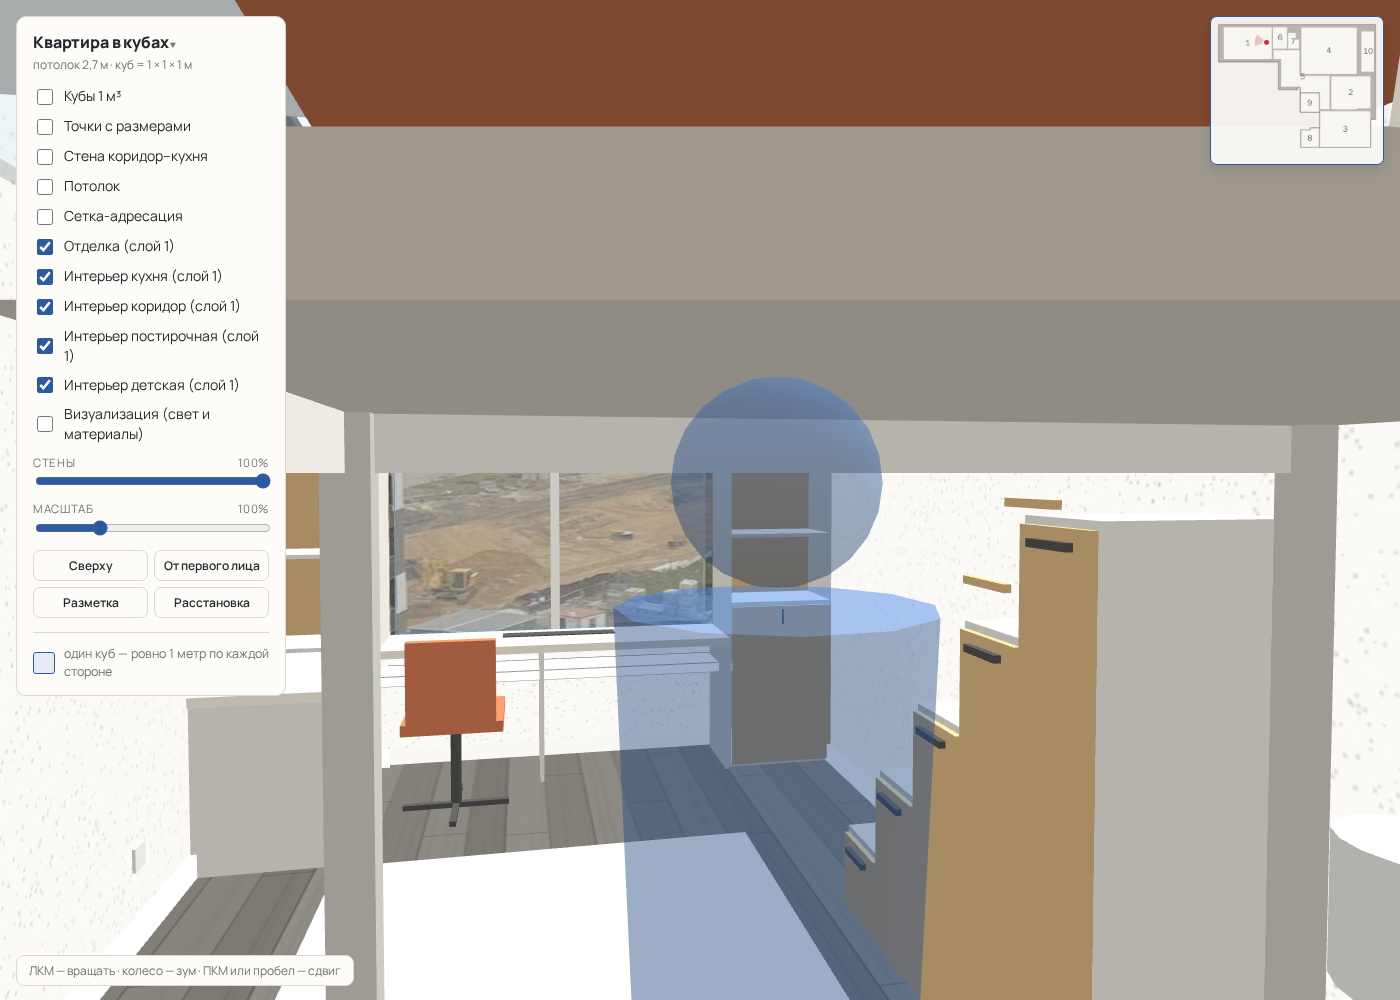
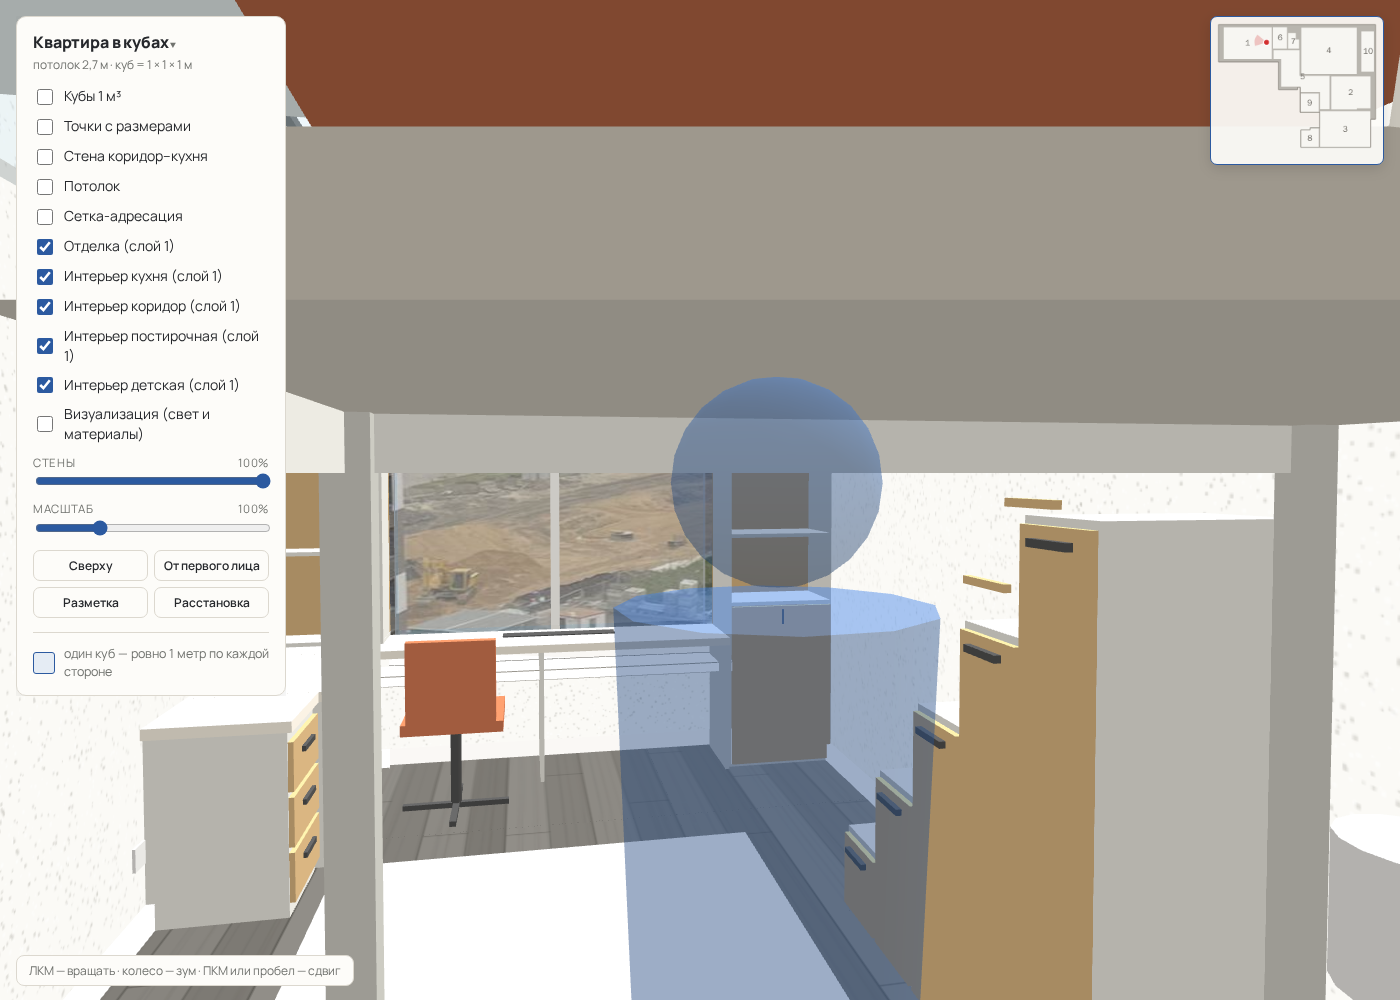
Комната 1: тумба у торца стола, стеллажи одним блоком до потолка, стеллаж на столе глубиной 0.25; проход в расстановке — по деталям друг напротив друга

Changed region(s): [[0.0921, 0.682, 0.2457, 0.93], [0.215, 0.62, 0.2457, 0.651]]

diff --git a/items.js b/items.js
@@ -120,27 +120,28 @@ const PHYS={}; // id → boxes
        b(0.02,0.43,0,0.68,0,0.02,mat.kbody); b(1.214,1.234,0,0.68,1.81,2.37,mat.kbody);               // end panels: north (at the shelf unit) and east
        b(0.05,0.43,0,0.68,0.98,1.0,mat.kbody);                                                        // middle support under the west wing, clear of the chair
        b(0.10,0.20,0.72,0.725,0.59,1.19,mat.knob);                                                     // vent grille over the radiator, 0.60 × 0.10
-       b(0.10,0.52,0.03,0.63,1.83,2.33,mat.kbody);                                                     // mobile pedestal 0.42 × 0.50 × 0.60 under the corner
-       [0.06,0.24,0.42].forEach(y=>{ b(0.52,0.53,y,y+0.16,1.84,2.32,mat.oak); b(0.53,0.545,y+0.1,y+0.12,2.0,2.16,mat.knob); }); // 3 drawers
      }},
+    {id:'kidped',type:'тумба с 3 ящиками у торца стола, столешница вровень',room:1,layer:'kid',pos:[2.13,4.364],rot:0,size:[0.42,0.72,0.50],fixed:'wall',
+     build(b){ b(0.02,0.40,0,0.68,0.02,0.50,mat.kbody); b(0,0.42,0.68,0.72,0,0.50,mat.hpl);
+       [0.06,0.26,0.46].forEach(y=>{ b(0.02,0.40,y,y+0.18,0,0.02,mat.oak); b(0.135,0.285,y+0.11,y+0.13,-0.015,0,mat.knob); }); }}, // drawer fronts to the room
     {id:'kidchair',type:'рабочее кресло, регулируемое',room:1,layer:'kid',pos:[1.30,3.60],rot:0,size:[0.55,0.85,0.55],
      build(b,g){
        b(0.05,0.50,0.42,0.47,0.05,0.50,mat.terra); b(0.50,0.55,0.47,0.85,0.08,0.47,mat.terra);      // seat and back, faces the window
        const c=new THREE.Mesh(new THREE.CylinderGeometry(0.025,0.025,0.39,10),mat.knob); c.position.set(0.275,0.225,0.275); g.add(c); // gas lift
        b(0.03,0.52,0,0.03,0.26,0.29,mat.knob); b(0.26,0.29,0,0.03,0.03,0.52,mat.knob);                // base cross
      }},
-    {id:'kidshelf',type:'стеллаж узкий в углу, фасадом к двери',room:1,layer:'kid',pos:[0.896,2.474],rot:270,size:[0.60,2.50,0.43],fixed:'wall',
+    {id:'kidshelf',type:'стеллаж узкий в углу, фасадом к двери',room:1,layer:'kid',pos:[0.896,2.474],rot:270,size:[0.60,2.70,0.43],fixed:'wall',
      build(b){
        const W=0.60, D=0.40, t=0.02;
-       b(0,W,0,t,0,D,mat.kbody); b(0,W,2.5-t,2.5,0,D,mat.kbody); b(0,W,t,2.5-t,0,t,mat.oak);           // bottom, top, oak back
-       b(0,t,t,2.5-t,t,D,mat.kbody); b(W-t,W,t,2.5-t,t,D,mat.kbody);                                  // sides
-       [0.90,1.27,1.63,2.00].forEach(y=>b(t,W-t,y-t,y,t,D,mat.kbody));                                 // shelves: closed 0–0.9, open cells 0.9–2.0, attic 2.0–2.5
+       b(0,W,0,t,0,D,mat.kbody); b(0,W,2.7-t,2.7,0,D,mat.kbody); b(0,W,t,2.7-t,0,t,mat.oak);           // bottom, top, oak back
+       b(0,t,t,2.7-t,t,D,mat.kbody); b(W-t,W,t,2.7-t,t,D,mat.kbody);                                  // sides
+       [0.90,1.27,1.63,2.00].forEach(y=>b(t,W-t,y-t,y,t,D,mat.kbody));                                 // shelves: closed 0–0.9, open cells 0.9–2.0, attic 2.0–2.7
        b(t+0.003,W-t-0.003,t+0.003,0.90-t-0.003,D,D+0.018,mat.oak); b(W/2-0.005,W/2+0.005,0.78,0.86,D+0.018,D+0.03,mat.knob);   // lower door
-       b(t+0.003,W-t-0.003,2.0+0.003,2.5-t-0.003,D,D+0.018,mat.oak); b(W/2-0.005,W/2+0.005,2.05,2.13,D+0.018,D+0.03,mat.knob); // attic door
+       b(t+0.003,W-t-0.003,2.0+0.003,2.7-t-0.003,D,D+0.018,mat.oak); b(W/2-0.005,W/2+0.005,2.05,2.13,D+0.018,D+0.03,mat.knob); // attic door
      }},
-    {id:'kidshelf2',type:'стеллаж узкий с открытыми полками в юго-западном углу, от стола до потолка',room:1,layer:'kid',pos:[0.896,4.864],rot:270,size:[0.60,2.70,0.40],fixed:'wall',
+    {id:'kidshelf2',type:'стеллаж узкий с открытыми полками в юго-западном углу, от стола до потолка',room:1,layer:'kid',pos:[0.896,4.864],rot:270,size:[0.60,2.70,0.25],fixed:'wall',
      build(b){
-       const W=0.60, D=0.40, t=0.02, Y0=0.72;
+       const W=0.60, D=0.25, t=0.02, Y0=0.72; // shallow: 0.20 of the desk stays usable in front of it
        b(0,W,Y0,Y0+t,0,D,mat.kbody); b(0,W,2.7-t,2.7,0,D,mat.kbody); b(0,W,Y0+t,2.7-t,0,t,mat.oak);   // bottom on the desk, top, oak back
        b(0,t,Y0+t,2.7-t,t,D,mat.kbody); b(W-t,W,Y0+t,2.7-t,t,D,mat.kbody);                        // sides
        [1.20,1.70,2.20].forEach(y=>b(t,W-t,y-t,y,t,D,mat.kbody));                                  // 4 open cells

diff --git a/layout.js b/layout.js
@@ -58,13 +58,18 @@
       const o=aabb(it.id);
       const ox=Math.min(b[2],o[2])-Math.max(b[0],o[0]), oz=Math.min(b[3],o[3])-Math.max(b[1],o[1]);
       if(ox>0.005&&oz>0.005){ if(hits3d(id,it.id)) w.push('пересекается с '+it.id+' ('+it.type+')'); }
-      else if(onFloor(id)&&onFloor(it.id)&&ox>-PASS&&oz>-PASS){ const gap=Math.max(-ox,-oz); if(gap>0.005&&gap<PASS) w.push('проход до '+it.id+' '+gap.toFixed(2)+' м (< '+PASS+')'); }
+      else if(onFloor(id)&&onFloor(it.id)){ const gap=minGap(id,it.id); if(gap!=null) w.push('проход до '+it.id+' '+gap.toFixed(2)+' м (< '+PASS+')'); }
     });
     return w;
   }
   const bbox=id=>new THREE.Box3().setFromObject(ITEM_GROUPS[id]);
   const passive=id=>{ const bb=bbox(id); return bb.min.y>=1.9||bb.max.y<=0.02; }; // hanging (above head) or flat (rug) items block nothing
   const onFloor=id=>bbox(id).min.y<0.05; // passage matters only between floor-standing items
+  // narrowest corridor between parts of two items (below head height) that face each other along one axis;
+  // per part, not per item box: the loft bed's box covers the empty space under it; diagonal corners are not a corridor
+  function minGap(a,b){ let best=null; const P=id=>PHYS[id].map(m=>new THREE.Box3().setFromObject(m)).filter(x=>x.min.y<1.9);
+    P(a).forEach(x=>P(b).forEach(y=>{ const ox=Math.min(x.max.x,y.max.x)-Math.max(x.min.x,y.min.x), oz=Math.min(x.max.z,y.max.z)-Math.max(x.min.z,y.min.z);
+      const g=ox>0&&oz<=0.005?-oz:oz>0&&ox<=0.005?-ox:null; if(g!=null&&(best==null||g<best)) best=g; })); return best!=null&&best>0.15&&best<PASS?best:null; } // touching parts (gap ≤ 0.15) mean one block, not a corridor
   // real overlap: per-mesh boxes (a sofa under a loft bed sits between the legs, a socket above a desk is fine)
   function hits3d(a,b){ const A=PHYS[a].map(m=>new THREE.Box3().setFromObject(m)), B=PHYS[b].map(m=>new THREE.Box3().setFromObject(m)); const e=0.005;
     return A.some(x=>B.some(y=>x.min.x<y.max.x-e&&x.max.x>y.min.x+e&&x.min.y<y.max.y-e&&x.max.y>y.min.y+e&&x.min.z<y.max.z-e&&x.max.z>y.min.z+e)); }

diff --git a/tools/check.js b/tools/check.js
@@ -357,7 +357,7 @@ const { chromium } = require('playwright');
     const sofaTop = bb(ITEM_GROUPS.kidsofa).max.y;
     return { n: kids.length, inside, hitPlat, warn, tops, sofaTop, bedPos: ITEM_GROUPS.kidbed.userData.pos };
   });
-  if (kid.n < 23) problems.push('комната 1: предметов слоя kid ' + kid.n + ' (< 23)');
+  if (kid.n < 24) problems.push('комната 1: предметов слоя kid ' + kid.n + ' (< 24)');
   if (kid.inside.length) problems.push('комната 1: предметы вне помещения: ' + kid.inside.join(', '));
   if (kid.hitPlat.length) problems.push('комната 1: пересекают платформу кровати: ' + kid.hitPlat.join(', '));
   if (kid.sofaTop > 1.7) problems.push('комната 1: диванчик выше низа платформы: ' + kid.sofaTop);

diff --git a/CLAUDE.md b/CLAUDE.md
@@ -72,7 +72,7 @@
   (`fixed:'wall'`) двигаются только вдоль своей стены и не вращаются.
 - Предупреждения (не запрет): выход за границы помещения, пересечение с другим предметом
   (по боксам деталей из `physGroup`: диванчик между ножками кровати-чердака и розетка над столом не пересекаются),
-  проход уже 0.7 м — только между напольными предметами. Подвесные (низ выше 1.9 м) и плоские (ковёр, верх ниже 0.02) не мешают никому.
+  проход уже 0.7 м — только между напольными предметами, по деталям и только там, где детали стоят друг напротив друга (диагональ углов — не проход). Подвесные (низ выше 1.9 м) и плоские (ковёр, верх ниже 0.02) не мешают никому.
 - Варианты: «Исходная» (из `items.js`, только чтение) и именованные копии — хранятся как позы
   предметов по ID в `localStorage['pulse3d.layout']`, переключаются селектором, «Сброс» возвращает
   исходные позы в варианте, «Текст» — расстановка для агента, «Экспорт/Импорт» — JSON с проверкой.

diff --git a/tasks/room1-kid/README.md b/tasks/room1-kid/README.md
@@ -368,6 +368,9 @@ issue: —
 - Далее (`.local/eva_window_2.png`): окно 1.80 м (z 2.47–4.27, между стеллажами; в комнате 3 — 2.20 на стене 3.37), лампа M17 убрана,
   второй узкий стеллаж с открытыми полками в юго-западном углу от стола до потолка (`kidshelf2`), полка над окном между стеллажами
   (`kidshelf3`, y 2.30–2.70); кассета экрана под ней (y 2.18–2.30, полотно 1.70×0.96), карниз тюля на 2.30.
+- Далее (`.local/eva_window_3.png`): тумба — отдельный предмет `kidped` у восточного торца стола, столешница вровень 0.72, ящики на комнату;
+  северо-западный стеллаж до потолка 2.70 — один блок с полкой над окном; стеллаж на столе глубиной 0.25. Правило «проход» в
+  `layout.js` теперь по деталям и только между деталями друг напротив друга.
 
 ## Что не делалось (дизайнером)
 
